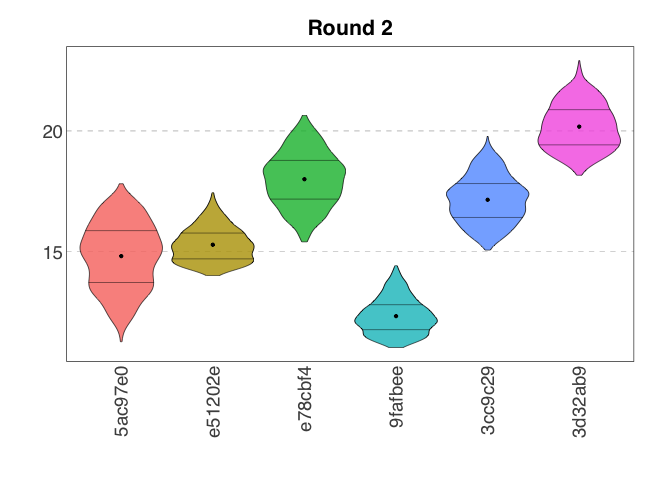
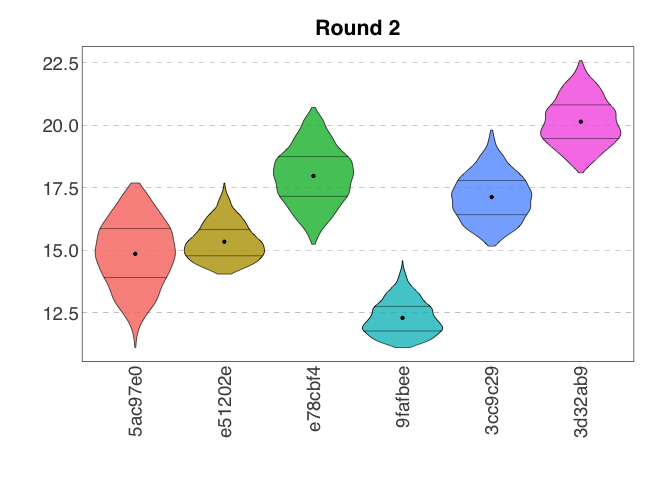
Update readme.

diff --git a/README.md b/README.md
@@ -59,9 +59,6 @@ variables.
 
 ``` r
 library(elicitr)
-#> Registered S3 method overwritten by 'lme4':
-#>   method           from
-#>   na.action.merMod car
 ```
 
 ### Elicitation of continuous variables
@@ -196,16 +193,16 @@ samp_cont
 #> # A tibble: 18,000 × 3
 #>    id      var   value
 #>    <chr>   <chr> <dbl>
-#>  1 5ac97e0 var1     -2
-#>  2 5ac97e0 var1      0
+#>  1 5ac97e0 var1     -4
+#>  2 5ac97e0 var1     -2
 #>  3 5ac97e0 var1     -2
 #>  4 5ac97e0 var1     -2
-#>  5 5ac97e0 var1     -2
+#>  5 5ac97e0 var1     -4
 #>  6 5ac97e0 var1     -2
-#>  7 5ac97e0 var1     -2
-#>  8 5ac97e0 var1     -4
-#>  9 5ac97e0 var1      0
-#> 10 5ac97e0 var1     -2
+#>  7 5ac97e0 var1      1
+#>  8 5ac97e0 var1     -2
+#>  9 5ac97e0 var1      1
+#> 10 5ac97e0 var1      1
 #> # ℹ 17,990 more rows
 ```
 
@@ -216,9 +213,9 @@ summary(samp_cont)
 #> # A tibble: 3 × 7
 #>   Var      Min     Q1 Median   Mean     Q3    Max
 #>   <chr>  <dbl>  <dbl>  <dbl>  <dbl>  <dbl>  <dbl>
-#> 1 var1  -4     -2     -2     -1.01   1      1    
-#> 2 var2  11.0   14.4   16.3   16.3   18.4   22.9  
-#> 3 var3   0.489  0.671  0.714  0.714  0.761  0.872
+#> 1 var1  -4     -2      0     -0.982  1      1    
+#> 2 var2  11.1   14.5   16.3   16.3   18.3   22.6  
+#> 3 var3   0.472  0.672  0.717  0.714  0.759  0.878
 ```
 
 And plotted as violin plots:
@@ -362,16 +359,16 @@ samp_cat_unweighted
 #> # A tibble: 2,400 × 7
 #>    id      option   category_1 category_2 category_3 category_4 category_5
 #>    <chr>   <chr>         <dbl>      <dbl>      <dbl>      <dbl>      <dbl>
-#>  1 5ac97e0 option_1     0.112           0      0.832    0.00432     0.0515
-#>  2 5ac97e0 option_1     0.0615          0      0.865    0.0283      0.0447
-#>  3 5ac97e0 option_1     0.112           0      0.834    0.0208      0.0327
-#>  4 5ac97e0 option_1     0.140           0      0.784    0.0122      0.0644
-#>  5 5ac97e0 option_1     0.0291          0      0.925    0.0217      0.0247
-#>  6 5ac97e0 option_1     0.0464          0      0.904    0.0197      0.0298
-#>  7 5ac97e0 option_1     0.0531          0      0.828    0.0546      0.0639
-#>  8 5ac97e0 option_1     0.0401          0      0.910    0.0136      0.0364
-#>  9 5ac97e0 option_1     0.0867          0      0.832    0.0250      0.0564
-#> 10 5ac97e0 option_1     0.0982          0      0.837    0.0165      0.0487
+#>  1 5ac97e0 option_1     0.0853          0      0.835    0.00450     0.0754
+#>  2 5ac97e0 option_1     0.0671          0      0.895    0.0177      0.0201
+#>  3 5ac97e0 option_1     0.0739          0      0.875    0.0171      0.0336
+#>  4 5ac97e0 option_1     0.114           0      0.841    0.00892     0.0358
+#>  5 5ac97e0 option_1     0.0759          0      0.865    0.0168      0.0425
+#>  6 5ac97e0 option_1     0.0341          0      0.907    0.00818     0.0505
+#>  7 5ac97e0 option_1     0.0882          0      0.817    0.0128      0.0819
+#>  8 5ac97e0 option_1     0.106           0      0.860    0.00311     0.0310
+#>  9 5ac97e0 option_1     0.0593          0      0.871    0.00661     0.0635
+#> 10 5ac97e0 option_1     0.0929          0      0.878    0.00888     0.0204
 #> # ℹ 2,390 more rows
 
 samp_cat_weighted <- cat_sample_data(my_elic_cat,
@@ -382,16 +379,16 @@ samp_cat_weighted
 #> # A tibble: 1,800 × 7
 #>    id      option   category_1 category_2 category_3 category_4 category_5
 #>    <chr>   <chr>         <dbl>      <dbl>      <dbl>      <dbl>      <dbl>
-#>  1 5ac97e0 option_1    0.0129     0.0134     0.00217      0.911     0.0608
-#>  2 5ac97e0 option_1    0.0206     0.0363     0.00823      0.850     0.0847
-#>  3 5ac97e0 option_1    0.00614    0.0111     0.00153      0.903     0.0781
-#>  4 5ac97e0 option_1    0.0152     0.0251     0.00850      0.823     0.128 
-#>  5 5ac97e0 option_1    0.00693    0.0130     0.00393      0.872     0.104 
-#>  6 5ac97e0 option_1    0.0394     0.0239     0.00376      0.849     0.0843
-#>  7 5ac97e0 option_1    0.00255    0.00742    0.00600      0.918     0.0665
-#>  8 5ac97e0 option_1    0.00862    0.0490     0.00199      0.812     0.128 
-#>  9 5ac97e0 option_1    0.0104     0.0104     0.00299      0.873     0.103 
-#> 10 5ac97e0 option_1    0.00878    0.0194     0.0104       0.843     0.118 
+#>  1 5ac97e0 option_1    0.0238     0.0225     0.00949      0.861     0.0828
+#>  2 5ac97e0 option_1    0.0193     0.0418     0.00711      0.867     0.0650
+#>  3 5ac97e0 option_1    0.00164    0.0242     0.0110       0.888     0.0749
+#>  4 5ac97e0 option_1    0.0221     0.0233     0.00349      0.863     0.0877
+#>  5 5ac97e0 option_1    0.0246     0.0509     0.00528      0.832     0.0872
+#>  6 5ac97e0 option_1    0.0388     0.00434    0.00313      0.898     0.0554
+#>  7 5ac97e0 option_1    0.00505    0.0112     0.00170      0.923     0.0592
+#>  8 5ac97e0 option_1    0.0226     0.0204     0.00580      0.892     0.0595
+#>  9 5ac97e0 option_1    0.0496     0.00873    0.00618      0.861     0.0749
+#> 10 5ac97e0 option_1    0.0480     0.0140     0.00192      0.819     0.117 
 #> # ℹ 1,790 more rows
 ```
 
@@ -402,11 +399,11 @@ summary(samp_cat_unweighted, option = "option_2")
 #> # A tibble: 5 × 7
 #>   Category        Min     Q1 Median   Mean    Q3   Max
 #>   <chr>         <dbl>  <dbl>  <dbl>  <dbl> <dbl> <dbl>
-#> 1 category_1 0.000612 0.107  0.165  0.195  0.323 0.477
-#> 2 category_2 0.0233   0.0828 0.131  0.204  0.338 0.580
-#> 3 category_3 0.00560  0.120  0.208  0.226  0.297 0.564
-#> 4 category_4 0.000663 0.0278 0.0737 0.0948 0.141 0.365
-#> 5 category_5 0.000814 0.149  0.239  0.281  0.355 0.779
+#> 1 category_1 0.000285 0.0966 0.162  0.193  0.321 0.500
+#> 2 category_2 0.0157   0.0822 0.136  0.206  0.337 0.596
+#> 3 category_3 0.0151   0.124  0.207  0.225  0.292 0.584
+#> 4 category_4 0.00184  0.0275 0.0714 0.0956 0.148 0.323
+#> 5 category_5 0.00141  0.154  0.247  0.280  0.344 0.790
 ```
 
 And plotted as violin plots:
